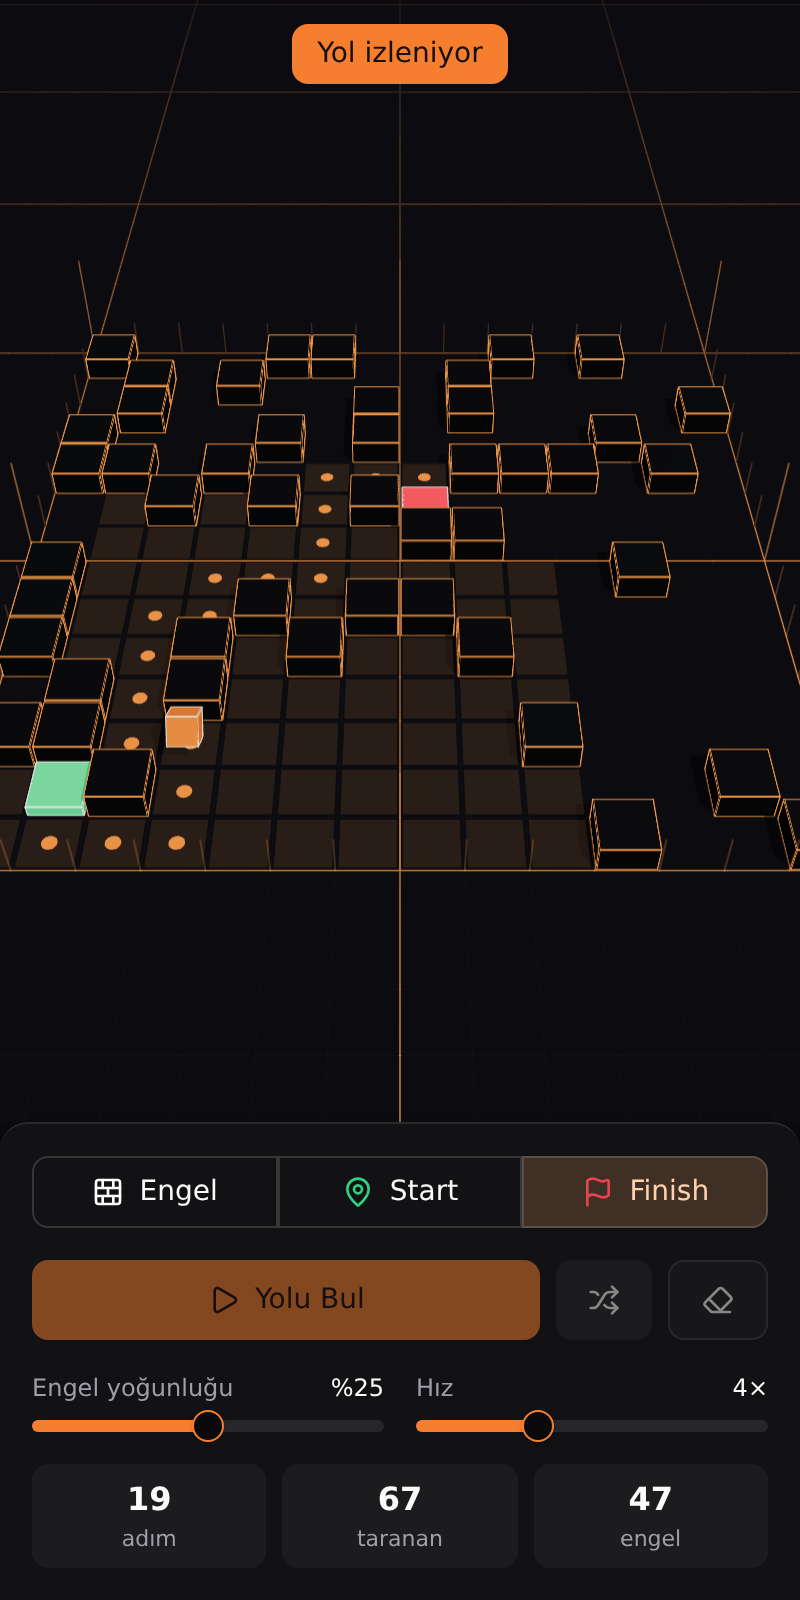
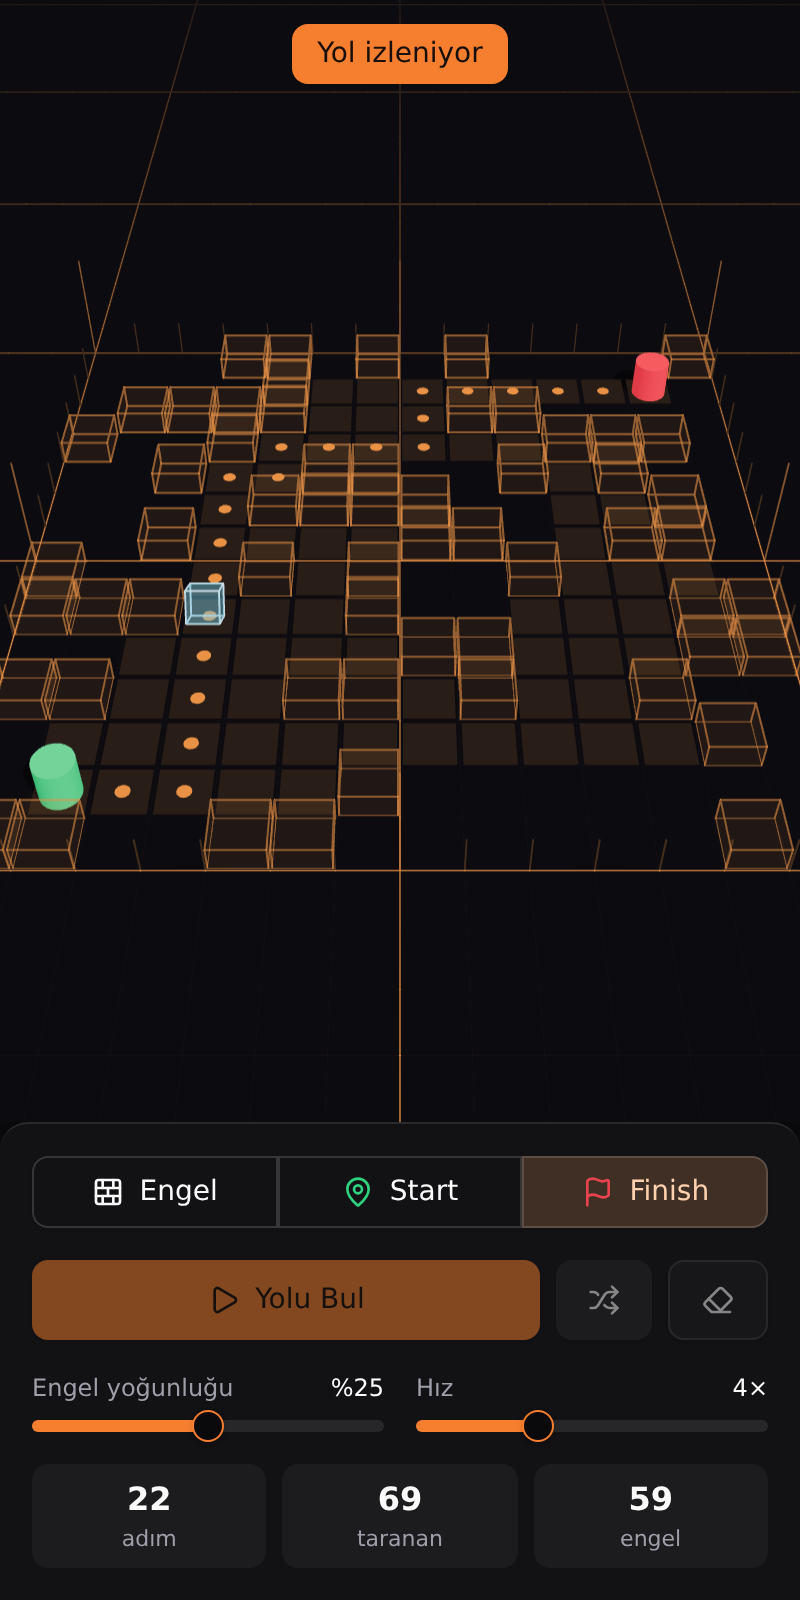
Use solid cylinders for start/finish, translucent runner and obstacles
Claude-Session: https://claude.ai/code/session_012C741uDUbYVtiP9ZhWnGNd

Changed region(s): [[0.0, 0.1875, 1.0, 0.5625], [0.7812, 0.9062, 0.8438, 0.9688], [0.5, 0.9062, 0.5312, 0.9375]]

diff --git a/src/components/Arena.jsx b/src/components/Arena.jsx
@@ -52,10 +52,10 @@ export function Obstacles({ walls }) {
   return [...walls].map((k) => {
     const [wx, wz] = toWorld(k.split(',').map(Number))
     return (
-      <mesh key={k} position={[wx, 0.25, wz]} castShadow receiveShadow>
+      <mesh key={k} position={[wx, 0.25, wz]}>
         <boxGeometry args={[0.94, 0.5, 0.94]} />
-        <meshStandardMaterial color="#17181e" roughness={0.8} />
-        <Edges color={ORANGE} threshold={15} />
+        <meshBasicMaterial color={ORANGE} transparent opacity={0.1} depthWrite={false} />
+        <Edges color={ORANGE} threshold={15} transparent opacity={0.6} />
       </mesh>
     )
   })
@@ -86,18 +86,17 @@ export function Trail({ visited, path }) {
   )
 }
 
-// Colored cube tile marking the start or finish cell.
+// Solid colored cylinder marking the start or finish cell.
 export function Marker({ cell, color, pulse }) {
   const ref = useRef()
   useFrame(({ clock }) => {
-    if (pulse) ref.current.material.emissiveIntensity = 0.5 + Math.sin(clock.elapsedTime * 4) * 0.3
+    if (pulse) ref.current.material.emissiveIntensity = 0.45 + Math.sin(clock.elapsedTime * 4) * 0.25
   })
   const [wx, wz] = toWorld(cell)
   return (
-    <mesh ref={ref} position={[wx, 0.1, wz]} castShadow receiveShadow>
-      <boxGeometry args={[0.9, 0.2, 0.9]} />
-      <meshStandardMaterial color={color} emissive={color} emissiveIntensity={0.5} />
-      <Edges color="#ffffff" />
+    <mesh ref={ref} position={[wx, 0.4, wz]} castShadow receiveShadow>
+      <cylinderGeometry args={[0.36, 0.36, 0.8, 40]} />
+      <meshStandardMaterial color={color} emissive={color} emissiveIntensity={0.45} roughness={0.45} />
     </mesh>
   )
 }

diff --git a/src/components/Runner.jsx b/src/components/Runner.jsx
@@ -4,8 +4,8 @@ import { Edges } from '@react-three/drei'
 import * as THREE from 'three'
 import { toWorld } from '../grid.js'
 
-const S = 0.5 // cube size
-const BASE = 0.2 // sits on top of the start/finish tiles
+const S = 0.6 // cube size
+const BASE = 0
 const UP = new THREE.Vector3(0, 1, 0)
 const axis = new THREE.Vector3()
 
@@ -54,10 +54,10 @@ export default function Runner({ queue, onStep, snap, speed = 3.5 }) {
 
   return (
     <group ref={group}>
-      <mesh ref={cube} castShadow>
+      <mesh ref={cube} renderOrder={2}>
         <boxGeometry args={[S, S, S]} />
-        <meshStandardMaterial color="#ef7d3c" emissive="#ef7d3c" emissiveIntensity={0.35} roughness={0.4} />
-        <Edges color="#ffd2b0" />
+        <meshStandardMaterial color="#38bdf8" emissive="#38bdf8" emissiveIntensity={0.5} transparent opacity={0.45} depthWrite={false} />
+        <Edges color="#bae6fd" />
       </mesh>
     </group>
   )

diff --git a/README.md b/README.md
@@ -1,6 +1,6 @@
 # r3f-yolbulan
 
-React Three Fiber + shadcn/ui ile 3B yol bulma (A*) demosu: turuncu küp, yeşil **START** küpünden kırmızı **FINISH** küpüne en kısa yolu bulup yuvarlanarak gider.
+React Three Fiber + shadcn/ui ile 3B yol bulma (A*) demosu: yarı saydam mavi küp, yeşil **START** silindirinden kırmızı **FINISH** silindirine en kısa yolu bulup yuvarlanarak gider.
 
 ## ▶ Demo
 
@@ -16,9 +16,9 @@ React Three Fiber + shadcn/ui ile 3B yol bulma (A*) demosu: turuncu küp, yeşil
 
 - **Engel / Start / Finish**: arenaya dokununca ne yapılacağını seç.
   - Engel: engel koy/kaldır (fareyle sürükleyerek çizebilirsin)
-  - Start: yeşil başlangıç küpünü o kareye taşı
-  - Finish: kırmızı bitiş küpünü o kareye taşı
-- **Yolu Bul**: A* ile Start → Finish yolunu arar, taranan kareleri gösterir, sonra turuncu küp yolu izler. (Boşluk/Enter da çalışır.)
+  - Start: yeşil başlangıç silindirini o kareye taşı
+  - Finish: kırmızı bitiş silindirini o kareye taşı
+- **Yolu Bul**: A* ile Start → Finish yolunu arar, taranan kareleri gösterir, sonra mavi küp yolu izler. (Boşluk/Enter da çalışır.)
 - **Rastgele**: seçili yoğunlukta, her zaman çözülebilir rastgele engeller.
 - **Temizle**: tüm engelleri siler.
 - **Engel yoğunluğu / Hız**: rastgele haritanın doluluğu ve küpün hızı.
